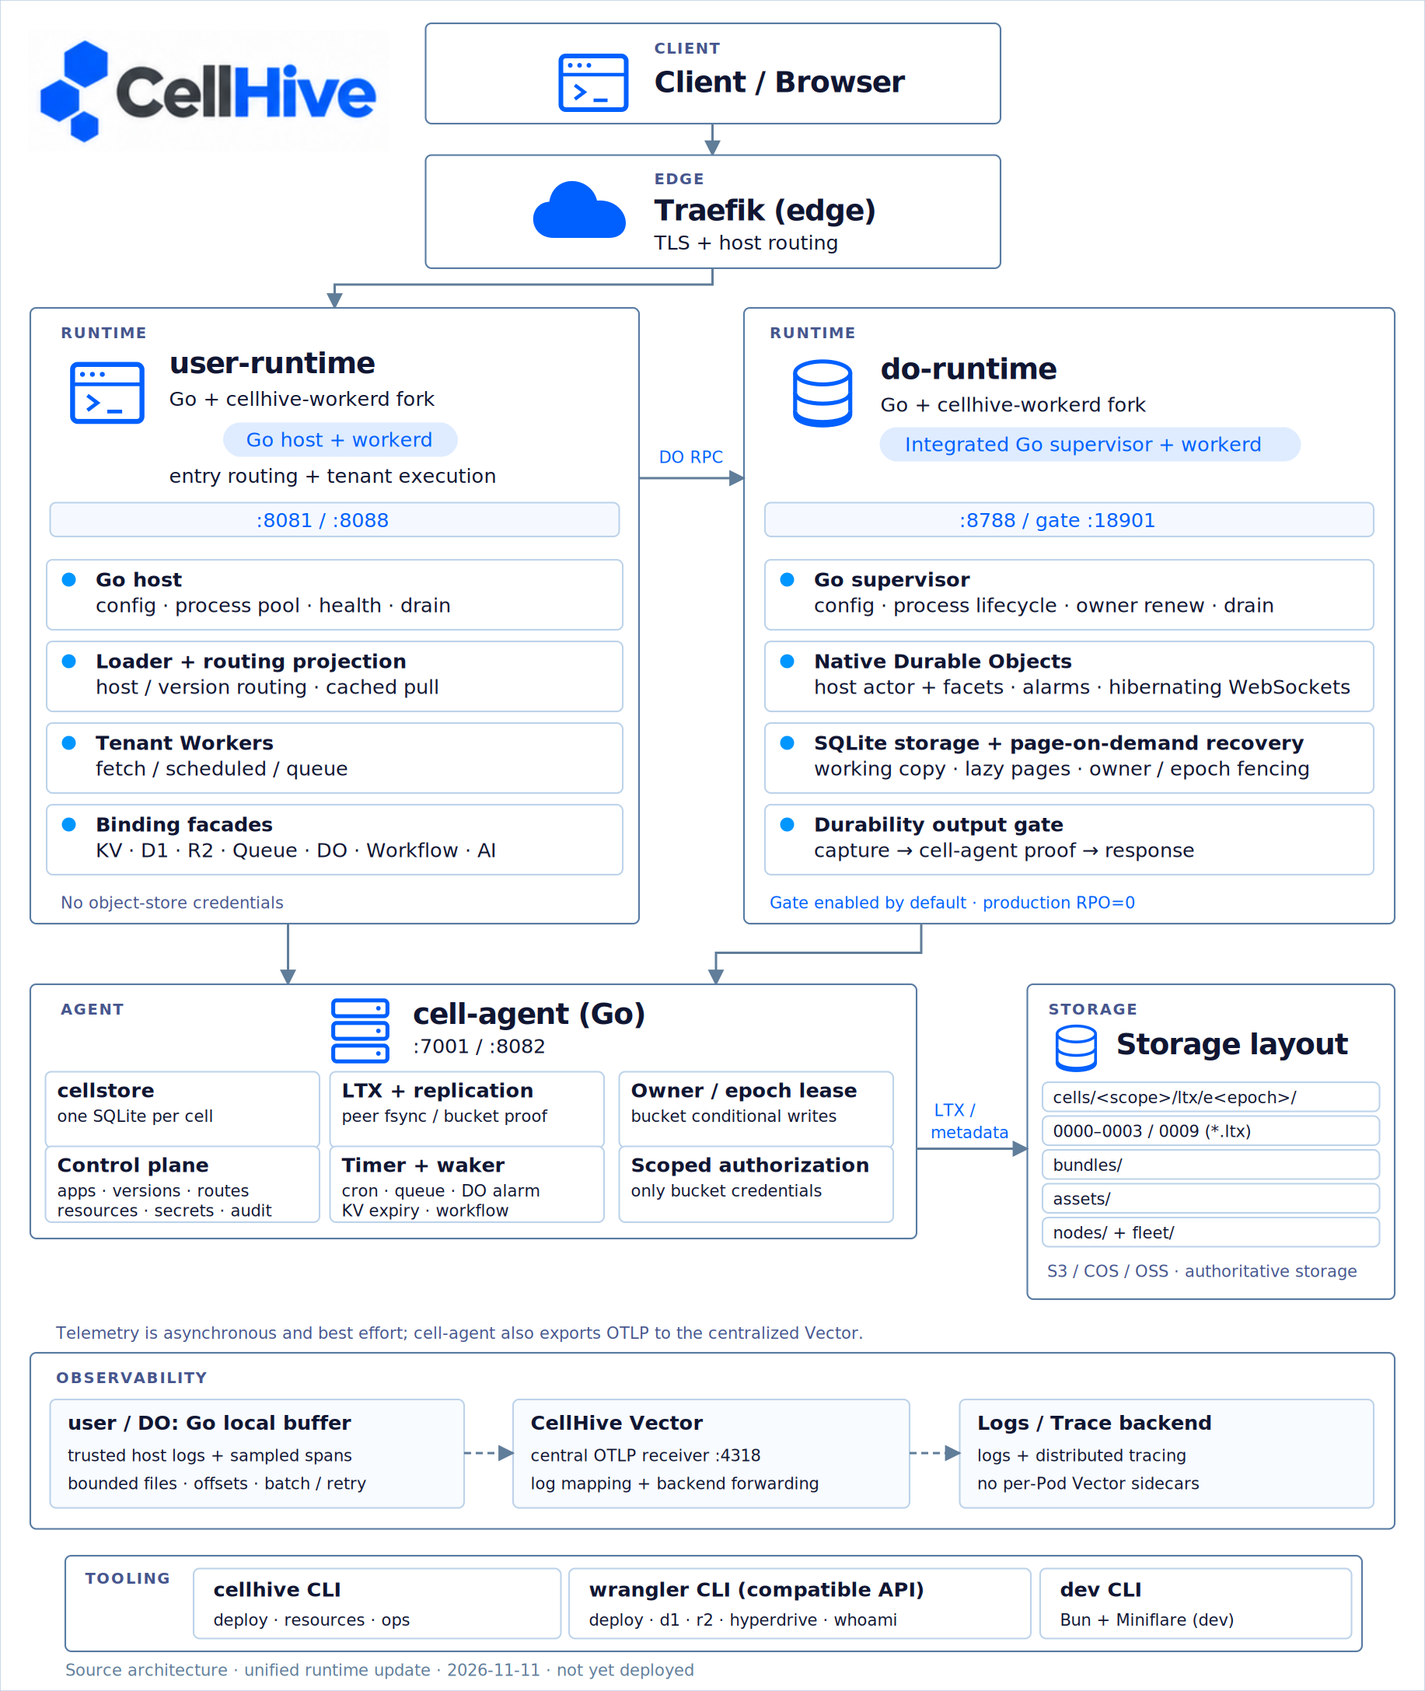
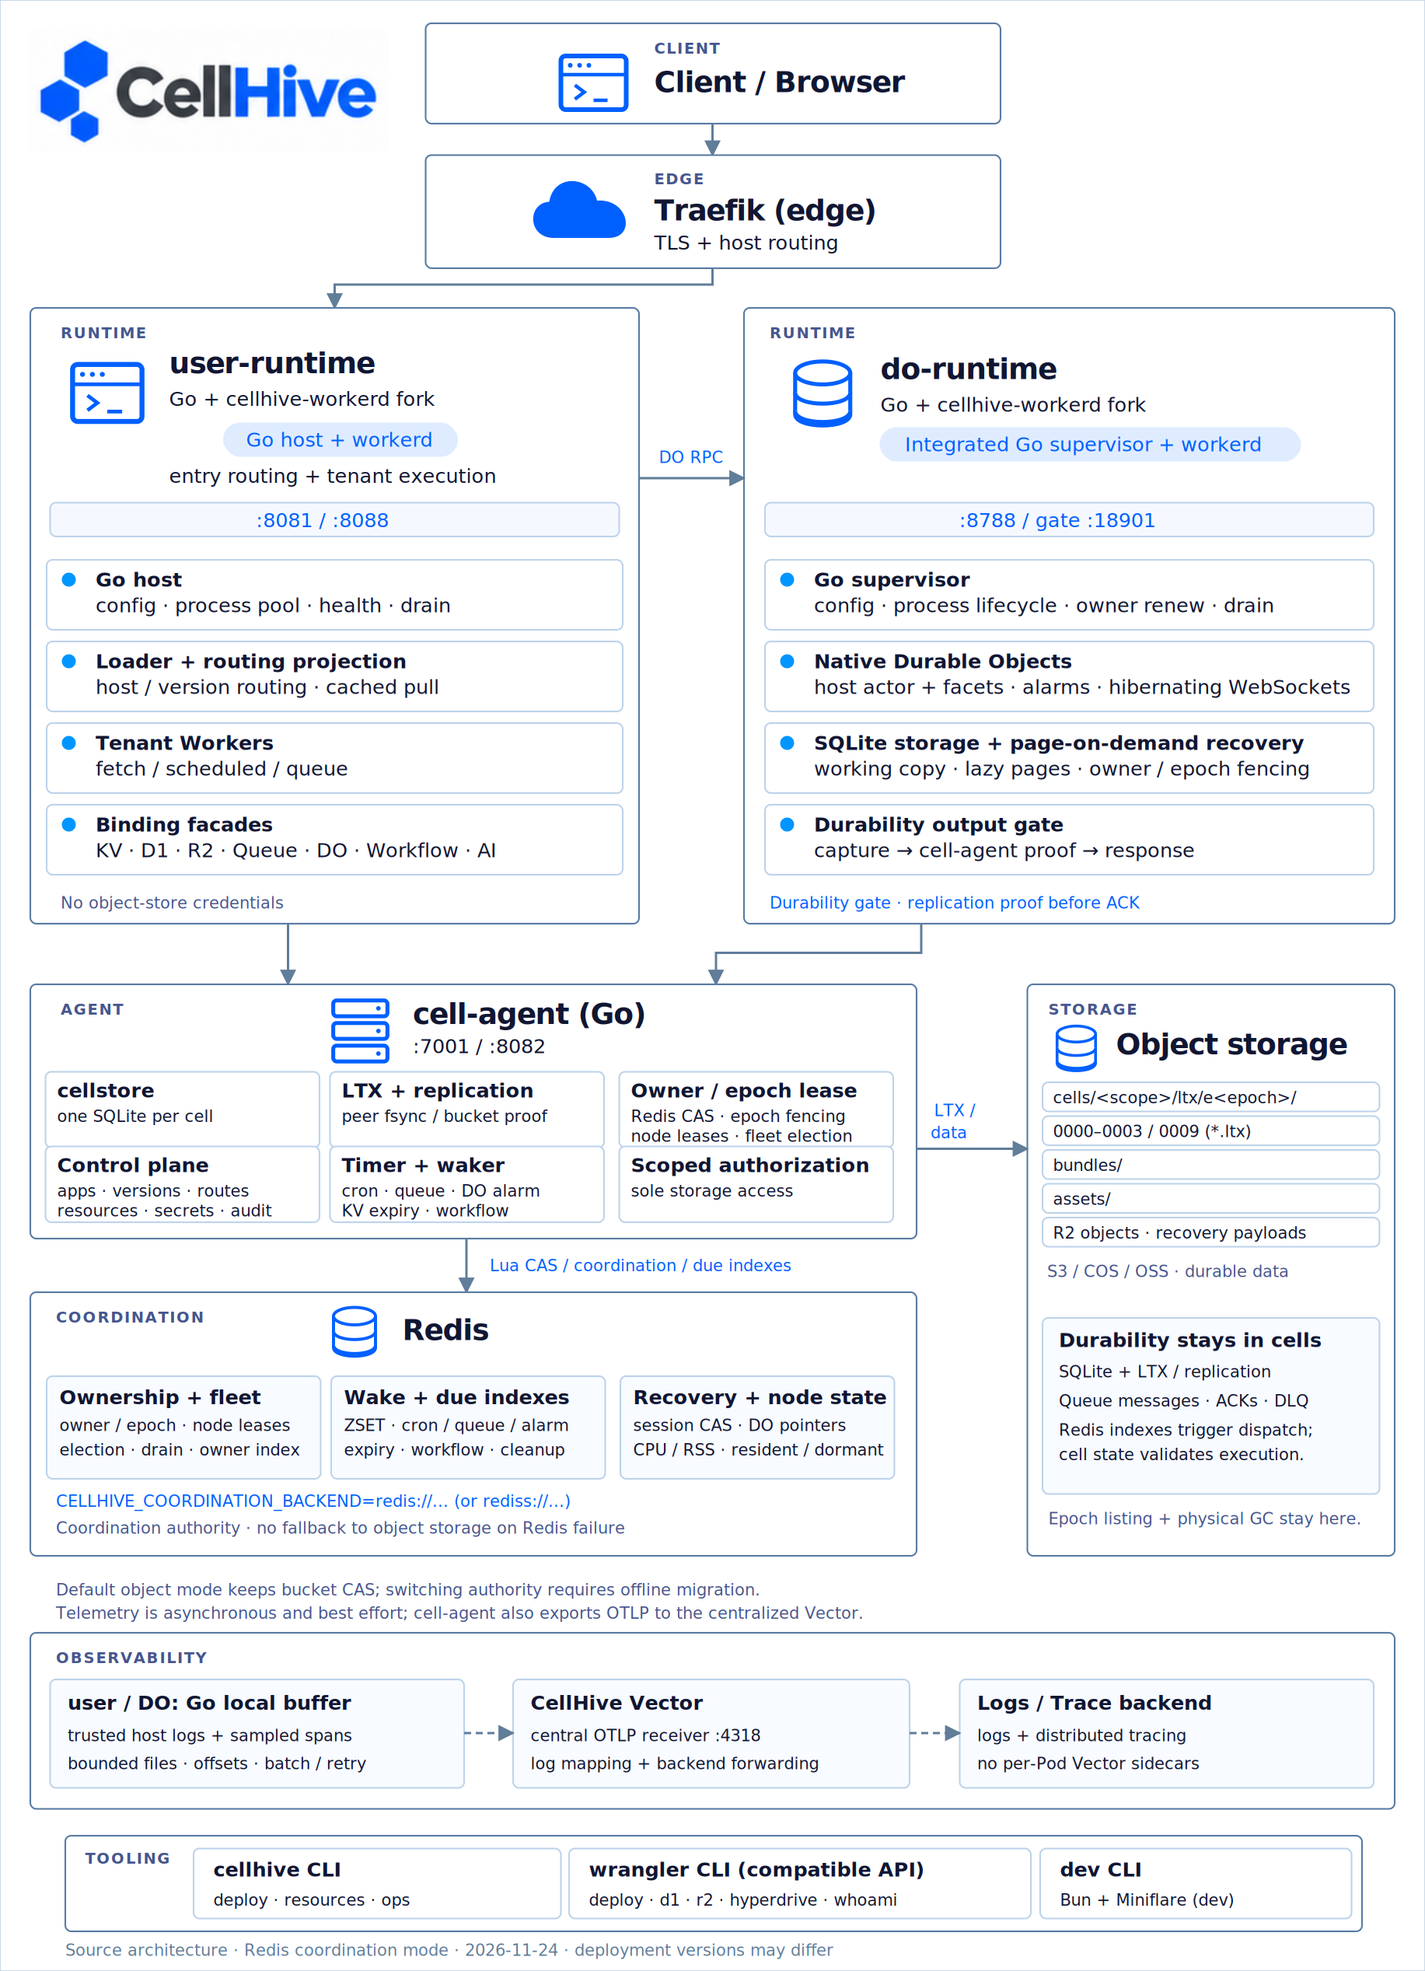
docs: update architecture diagram for Redis coordination

diff --git a/docs/assets/architecture-workerd-fork.html b/docs/assets/architecture-workerd-fork.html
@@ -1,11 +1,11 @@
-<!doctype html><html lang="en"><meta charset="utf-8"><meta name="viewport" content="width=device-width,initial-scale=1"><title>CellHive architecture</title><style>body{margin:0;background:white}svg{display:block;width:100%;height:auto;max-width:1222px;margin:auto}</style><svg xmlns="http://www.w3.org/2000/svg" width="1222" height="1450" viewBox="0 0 1222 1450" role="img" aria-labelledby="title desc">
-<title id="title">CellHive architecture</title><desc id="desc">Unified Go supervisors for user and DO runtimes; integrated DO durability gate; Go file buffering and centralized Vector; cell-agent owns storage credentials and replication.</desc>
+<!doctype html><html lang="en"><meta charset="utf-8"><meta name="viewport" content="width=device-width,initial-scale=1"><title>CellHive architecture</title><style>body{margin:0;background:white}svg{display:block;width:100%;height:auto;max-width:1222px;margin:auto}</style><svg xmlns="http://www.w3.org/2000/svg" width="1222" height="1690" viewBox="0 0 1222 1690" role="img" aria-labelledby="title desc">
+<title id="title">CellHive architecture</title><desc id="desc">Unified Go runtime supervisors and cell-agent; Redis owns coordination, recovery metadata and due indexes; object storage retains durable payloads, LTX, code and assets. Redis mode has no object-store fallback.</desc>
 <defs><marker id="arrow" viewBox="0 0 10 10" refX="9" refY="5" markerWidth="7" markerHeight="7" orient="auto-start-reverse"><path d="M0 0L10 5L0 10Z" fill="#607d99"/></marker>
 <symbol id="db" viewBox="0 0 64 64"><g stroke="#0060ff" stroke-width="3.5" fill="white"><path d="M8 14V50C8 63 56 63 56 50V14"/><ellipse cx="32" cy="14" rx="24" ry="10"/><path d="M8 31C8 44 56 44 56 31M8 47C8 60 56 60 56 47"/></g></symbol>
 <symbol id="window" viewBox="0 0 64 64"><rect x="4" y="8" width="56" height="46" rx="4" fill="none" stroke="#0060ff" stroke-width="4"/><path d="M4 24H60M16 33L24 39L16 45M32 46H44" fill="none" stroke="#0060ff" stroke-width="3"/><g fill="#0060ff"><circle cx="12" cy="16" r="2"/><circle cx="20" cy="16" r="2"/><circle cx="28" cy="16" r="2"/></g></symbol>
 <symbol id="server" viewBox="0 0 64 64"><g fill="none" stroke="#0060ff" stroke-width="3.5"><rect x="8" y="6" width="48" height="14" rx="3"/><rect x="8" y="26" width="48" height="14" rx="3"/><rect x="8" y="46" width="48" height="14" rx="3"/></g><g fill="#0060ff"><circle cx="48" cy="13" r="2"/><circle cx="48" cy="33" r="2"/><circle cx="48" cy="53" r="2"/></g></symbol>
 </defs><style>text{font-family:DejaVu Sans,Arial,sans-serif;fill:#101632}.title{font-size:25px;font-weight:700;letter-spacing:-.7px}.body{font-size:17px}.small{font-size:14px}.label{font-size:13px;font-weight:700;letter-spacing:1.2px;fill:#46568d}.blue{fill:#0060ff}.rowtitle{font-size:17px;font-weight:700}</style>
-<rect width="1222" height="1450" fill="white" stroke="#b7cde1"/>
+<rect width="1222" height="1690" fill="white" stroke="#b7cde1"/>
 
[1 lines of base64/hex data omitted]
 <rect x="365" y="20" width="493" height="86" rx="5" fill="#fff" stroke="#587ba2" stroke-width="1.4"/>
@@ -71,7 +71,7 @@
 <circle cx="675" cy="707" r="6" fill="#0096ff"/>
 <text x="698" y="713" class="rowtitle">Durability output gate</text>
 <text x="698" y="735" class="body">capture → cell-agent proof → response</text>
-<text x="660" y="779" class="small" style="fill:#0060ff">Gate enabled by default · production RPO=0</text>
+<text x="660" y="779" class="small" style="fill:#0060ff">Durability gate · replication proof before ACK</text>
 <path d="M548 410H638" fill="none" stroke="#607d99" stroke-width="2" marker-end="url(#arrow)"/>
 <text x="565" y="397" class="small" style="fill:#0060ff">DO RPC</text>
 <path d="M247 792V844" fill="none" stroke="#607d99" stroke-width="2" marker-end="url(#arrow)"/>
@@ -91,8 +91,8 @@
 <text x="293" y="979" class="small"></text>
 <rect x="531" y="919" width="235" height="65" rx="5" fill="#fff" stroke="#bdd3ea" stroke-width="1.4"/>
 <text x="541" y="941" class="rowtitle">Owner / epoch lease</text>
-<text x="541" y="962" class="small">bucket conditional writes</text>
-<text x="541" y="979" class="small"></text>
+<text x="541" y="962" class="small">Redis CAS · epoch fencing</text>
+<text x="541" y="979" class="small">node leases · fleet election</text>
 <rect x="39" y="983" width="235" height="65" rx="5" fill="#fff" stroke="#bdd3ea" stroke-width="1.4"/>
 <text x="49" y="1005" class="rowtitle">Control plane</text>
 <text x="49" y="1026" class="small">apps · versions · routes</text>
@@ -103,12 +103,12 @@
 <text x="293" y="1043" class="small">KV expiry · workflow</text>
 <rect x="531" y="983" width="235" height="65" rx="5" fill="#fff" stroke="#bdd3ea" stroke-width="1.4"/>
 <text x="541" y="1005" class="rowtitle">Scoped authorization</text>
-<text x="541" y="1026" class="small">only bucket credentials</text>
+<text x="541" y="1026" class="small">sole storage access</text>
 <text x="541" y="1043" class="small"></text>
-<rect x="881" y="844" width="315" height="270" rx="5" fill="#fff" stroke="#587ba2" stroke-width="1.4"/>
+<rect x="881" y="844" width="315" height="490" rx="5" fill="#fff" stroke="#587ba2" stroke-width="1.4"/>
 <text x="899" y="870" class="label">STORAGE</text>
 <use href="#db" x="901" y="877" width="44" height="44"/>
-<text x="957" y="904" class="title">Storage layout</text>
+<text x="957" y="904" class="title">Object storage</text>
 <rect x="894" y="928" width="289" height="25" rx="5" fill="#fff" stroke="#bdd3ea" stroke-width="1.4"/>
 <text x="903" y="946" class="small">cells/&lt;scope&gt;/ltx/e&lt;epoch&gt;/</text>
 <rect x="894" y="957" width="289" height="25" rx="5" fill="#fff" stroke="#bdd3ea" stroke-width="1.4"/>
@@ -118,11 +118,44 @@
 <rect x="894" y="1015" width="289" height="25" rx="5" fill="#fff" stroke="#bdd3ea" stroke-width="1.4"/>
 <text x="903" y="1033" class="small">assets/</text>
 <rect x="894" y="1044" width="289" height="25" rx="5" fill="#fff" stroke="#bdd3ea" stroke-width="1.4"/>
-<text x="903" y="1062" class="small">nodes/ + fleet/</text>
-<text x="898" y="1095" class="small" style="fill:#46568d">S3 / COS / OSS · authoritative storage</text>
+<text x="903" y="1062" class="small">R2 objects · recovery payloads</text>
+<text x="898" y="1095" class="small" style="fill:#46568d">S3 / COS / OSS · durable data</text>
 <path d="M786 985H881" fill="none" stroke="#607d99" stroke-width="2" marker-end="url(#arrow)"/>
 <text x="801" y="957" class="small" style="fill:#0060ff">LTX /</text>
-<text x="798" y="976" class="small" style="fill:#0060ff">metadata</text>
+<text x="798" y="976" class="small" style="fill:#0060ff">data</text>
+
+<!-- Redis is reached only through cell-agent; data buckets remain separate. -->
+<path d="M400 1062V1108" fill="none" stroke="#607d99" stroke-width="2" marker-end="url(#arrow)"/>
+<text x="420" y="1090" class="small" style="fill:#0060ff">Lua CAS / coordination / due indexes</text>
+<rect x="26" y="1108" width="760" height="226" rx="5" fill="#fff" stroke="#587ba2" stroke-width="1.4"/>
+<text x="48" y="1134" class="label">COORDINATION</text>
+<use href="#db" x="280" y="1118" width="48" height="48"/>
+<text x="345" y="1149" class="title">Redis</text>
+<rect x="40" y="1180" width="235" height="88" rx="5" fill="#f8fbff" stroke="#bdd3ea" stroke-width="1.4"/>
+<text x="51" y="1204" class="rowtitle">Ownership + fleet</text>
+<text x="51" y="1227" class="small">owner / epoch · node leases</text>
+<text x="51" y="1248" class="small">election · drain · owner index</text>
+<rect x="284" y="1180" width="235" height="88" rx="5" fill="#f8fbff" stroke="#bdd3ea" stroke-width="1.4"/>
+<text x="295" y="1204" class="rowtitle">Wake + due indexes</text>
+<text x="295" y="1227" class="small">ZSET · cron / queue / alarm</text>
+<text x="295" y="1248" class="small">expiry · workflow · cleanup</text>
+<rect x="532" y="1180" width="235" height="88" rx="5" fill="#f8fbff" stroke="#bdd3ea" stroke-width="1.4"/>
+<text x="543" y="1204" class="rowtitle">Recovery + node state</text>
+<text x="543" y="1227" class="small">session CAS · DO pointers</text>
+<text x="543" y="1248" class="small">CPU / RSS · resident / dormant</text>
+<text x="48" y="1292" class="small" style="fill:#0060ff">CELLHIVE_COORDINATION_BACKEND=redis://...  (or rediss://...)</text>
+<text x="48" y="1315" class="small" style="fill:#46568d">Coordination authority · no fallback to object storage on Redis failure</text>
+<rect x="894" y="1130" width="289" height="151" rx="5" fill="#f8fbff" stroke="#bdd3ea" stroke-width="1.4"/>
+<text x="908" y="1155" class="rowtitle">Durability stays in cells</text>
+<text x="908" y="1181" class="small">SQLite + LTX / replication</text>
+<text x="908" y="1206" class="small">Queue messages · ACKs · DLQ</text>
+<text x="908" y="1231" class="small">Redis indexes trigger dispatch;</text>
+<text x="908" y="1252" class="small">cell state validates execution.</text>
+<text x="899" y="1307" class="small" style="fill:#46568d">Epoch listing + physical GC stay here.</text>
+<text x="48" y="1368" class="small" style="fill:#46568d">Default object mode keeps bucket CAS; switching authority requires offline migration.</text>
+
+<g transform="translate(0 240)">
+<text x="48" y="1148" class="small" style="fill:#46568d">Telemetry is asynchronous and best effort; cell-agent also exports OTLP to the centralized Vector.</text>
 <rect x="26" y="1160" width="1170" height="151" rx="5" fill="#fff" stroke="#587ba2" stroke-width="1.4"/>
 <text x="48" y="1186" class="label">OBSERVABILITY</text>
 <rect x="43" y="1200" width="355" height="93" rx="5" fill="#f8fbff" stroke="#bdd3ea" stroke-width="1.4"/>
@@ -139,7 +172,7 @@
 <text x="838" y="1277" class="small">no per-Pod Vector sidecars</text>
 <path d="M398 1246H440" fill="none" stroke="#607d99" stroke-width="2" stroke-dasharray="6 4" marker-end="url(#arrow)"/>
 <path d="M780 1246H823" fill="none" stroke="#607d99" stroke-width="2" stroke-dasharray="6 4" marker-end="url(#arrow)"/>
-<text x="48" y="1148" class="small" style="fill:#46568d">Telemetry is asynchronous and best effort; cell-agent also exports OTLP to the centralized Vector.</text>
+
 <rect x="56" y="1334" width="1112" height="82" rx="5" fill="#fff" stroke="#587ba2" stroke-width="1.4"/>
 <text x="73" y="1358" class="label">TOOLING</text>
 <rect x="166" y="1345" width="315" height="60" rx="5" fill="#fff" stroke="#bdd3ea" stroke-width="1.4"/>
@@ -151,5 +184,7 @@
 <rect x="892" y="1345" width="267" height="60" rx="5" fill="#fff" stroke="#bdd3ea" stroke-width="1.4"/>
 <text x="909" y="1369" class="rowtitle">dev CLI</text>
 <text x="909" y="1394" class="small">Bun + Miniflare (dev)</text>
-<text x="56" y="1437" class="small" style="fill:#607d99">Source architecture · unified runtime update · 2026-11-11 · not yet deployed</text>
-</svg></html>
+<text x="56" y="1437" class="small" style="fill:#607d99">Source architecture · Redis coordination mode · 2026-11-24 · deployment versions may differ</text>
+</g>
+</svg>
+</html>

diff --git a/docs/en/architecture.md b/docs/en/architecture.md
@@ -7,7 +7,7 @@ CellHive is a self-hosted **Cloudflare Workers-compatible** runtime for teams th
 Design tenets:
 
 1. **Workerd changes live only in the fork repo.** The compute layer uses `cellhive-workerd`, an upstream-tracking fork with CellHive per-invocation limits; this repo does not inline-patch workerd, it integrates through `workerLoader`, bindings, capnp and process flags.
-2. **All state is a cell.** Each state unit is a named SQLite database; S3-compatible object storage is the long-term authority; bucket conditional writes determine the unique owner; no consensus service is required.
+2. **All state is a cell.** Each state unit is a named SQLite database; S3-compatible object storage is the long-term authority; bucket conditional writes determine ownership by default. Optional Redis authority handles owner/lease/wake metadata without changing the durable data chain; changing backends requires offline migration.
 3. **Compute and state are layered.** `cellhive-workerd` is responsible for execution; all persistent data goes through `cell-agent`.
 4. **Fixed state layer + elastic execution layer.** `cell-agent` is a fixed cluster (nodes with identities); `do-runtime` is a distributed elastic execution layer, and its local disk may be temporary.
 5. **Portable.** The runtime does not depend on privileges or FUSE; by default it can run on managed/restricted Kubernetes.
@@ -16,7 +16,7 @@ Design tenets:
 
 - Global edge network, cross-region replication, Cloudflare account API compatibility;
 - Modifying workerd inside the CellHive repo, or introducing a second JS engine (workerd changes go to `yingce/cellhive-workerd`);
-- Depending on NATS / kvrocks / Valkey / etcd / APISIX;
+- Introducing additional NATS / etcd / APISIX coordination or gateway components;
 - A standalone gateway component (ingress responsibilities are handled by the operations edge proxy + user-runtime; see ADR-017; the platform does not distribute edge configuration, ADR-132);
 - Supporting CF capabilities that workerd itself does not provide (Python Workers, Cache API, Vectorize, Hyperdrive, Browser Rendering, Email Workers, etc.).
 
@@ -28,10 +28,19 @@ Design tenets:
 | `user-runtime` | Go + cellhive-workerd (`cmd/user-runtime`) | :8081 public / :8088 internal privileged | Worker routing/version resolution/header sanitization + tenant Worker loading and execution. **Implemented**: `:8081` public loader (route projection fetch + version bundle loading + facade env + header sanitization, **ADR-068**) and `:8088` internal dispatch (queue/scheduled handler; ADR-067/070), with static assets on the public side (ADR-069) | No | No |
 | `do-runtime` | cellhive-workerd (`cmd/do-runtime`) + Go supervisor (`cmd/do-supervisor`) | :8788 | Native Durable Object execution; **distributed and elastic**. **Implemented**: host-actor skeleton (facets + localDisk, ADR-077) + ownership/fencing/drain/residency (ADR-078) + supervisor capture/output gate (ADR-083) + alarm (ADR-079) + WS 1012/cross-node forwarding (ADR-080/084) + cross-node cold activation/per-object recovery (ADR-084) + bindings inside DO (ADR-090) + session policy (ADR-107) + owner epoch fencing/configurable lease/object index (ADR-108/109) | Local disk may be temporary (working copy) | **Yes** |
 | `cell-agent` | Go (fixed cluster) | :7001 internal REST (Go↔Go also uses this port, ADR-136) / :8082 admin | cell data + replication + leases + control plane + owner resolution + timer dispatch + **sole bucket credentials** | Yes (owns SQLite itself) | No (handles drain itself) |
+| Redis (optional coordination backend) | Redis + Lua CAS / ZSET | :6379 (configurable) | Owner/epoch, node leases, fleet elections, session/DO recovery metadata and due indexes; business state remains in cells | Yes (external) | — |
 | Object storage | S3-compatible object storage | — | Authoritative state + code + assets | Yes (external) | — |
 | `cellhive` CLI | Go | — | Packaging/deployment/operations | No | — |
 
 > There is no `gateway`, `cell-router` (changed to a library), standalone `control`, standalone `scheduler`, `d1-runtime`, or `kv-runtime`.
+
+## Architecture Diagram
+
+![CellHive architecture](../assets/architecture-workerd-fork.png)
+
+[Editable SVG](../assets/architecture-workerd-fork.svg) · [Standalone view](../assets/architecture-workerd-fork.html)
+
+This shows the Redis-mode source architecture. Redis provides coordination authority and due indexes; durable business data remains in cells. Redis failures do not fall back to object storage. Default object mode retains bucket conditional writes; backend changes require offline migration. Session/DO metadata follows the v3 contract; this is not a regional deployment inventory. See the [recovery authority design](../superpowers/specs/2026-11-24-redis-recovery-authority-design.md).
 
 ## Topology
 
@@ -45,7 +54,8 @@ Internal (private network + internal token, **direct connection, not through Tra
   do-runtime ◀─owner routing/WS─ user-runtime (host adapter → cell-agent resolves owner)
   do-runtime ──WAL reporting/claim/recovery──▶ cell-agent :7001 (direct, HTTP)
   cell-agent ↔ cell-agent (ensemble/acquire/release, direct, HTTP :7001)
-  cell-agent ──only──▶ object storage
+  cell-agent ──CAS / leases / due indexes──▶ Redis (Redis mode)
+  cell-agent ──LTX / durable data / code / assets──▶ object storage
 
 Fixed: cell-agent cluster (≥2)   Elastic: do-runtime nodes (can be added/removed, temporary disk)
 
@@ -67,7 +77,8 @@ Fixed: cell-agent cluster (≥2)   Elastic: do-runtime nodes (can be added/remov
 │                · cell storage/replication/leases/epoch · owner resolution library · timer dispatch │
 │                · control plane (:8082) · sole object-storage credentials and data endpoints │
 ├───────────────────────────────────────────────────────────────┤
-│ Authoritative storage  S3-compatible object storage           │
+│ Coordination authority  Redis (owner / lease / fleet / wake)  │
+│ Durable data  SQLite + replicated LTX → S3 / COS / OSS         │
 └───────────────────────────────────────────────────────────────┘
 ```
 
@@ -153,7 +164,9 @@ All are unified as timers: due entries are stored in the SQLite of their owning 
 | Worker bundle / version metadata | Object storage (content-addressed) + control-plane cell |
 | KV / D1 / Queue / Workflow data | Each respective cell's SQLite, replicated to object storage via cell-agent |
 | DO data | workerd actor SQLite (working copy) → replicated to object storage via cell-agent |
-| cell owner / node lease | Object storage (conditional writes) |
+| cell owner / node lease / fleet election | Redis CAS in Redis mode; bucket conditional writes in default object mode |
+| Wake / due indexes | Redis + ZSET in Redis mode; execution still validates cell state |
+| Session records / DO recovery pointers | Redis CAS under v3; recovery payloads remain in replication/object storage |
 | Route / version / identity / key metadata | Control-plane cell (**single database**, ADR-117; app is the `ns` column in the table) |
 | R2 / ASSETS objects | Object storage |
 
